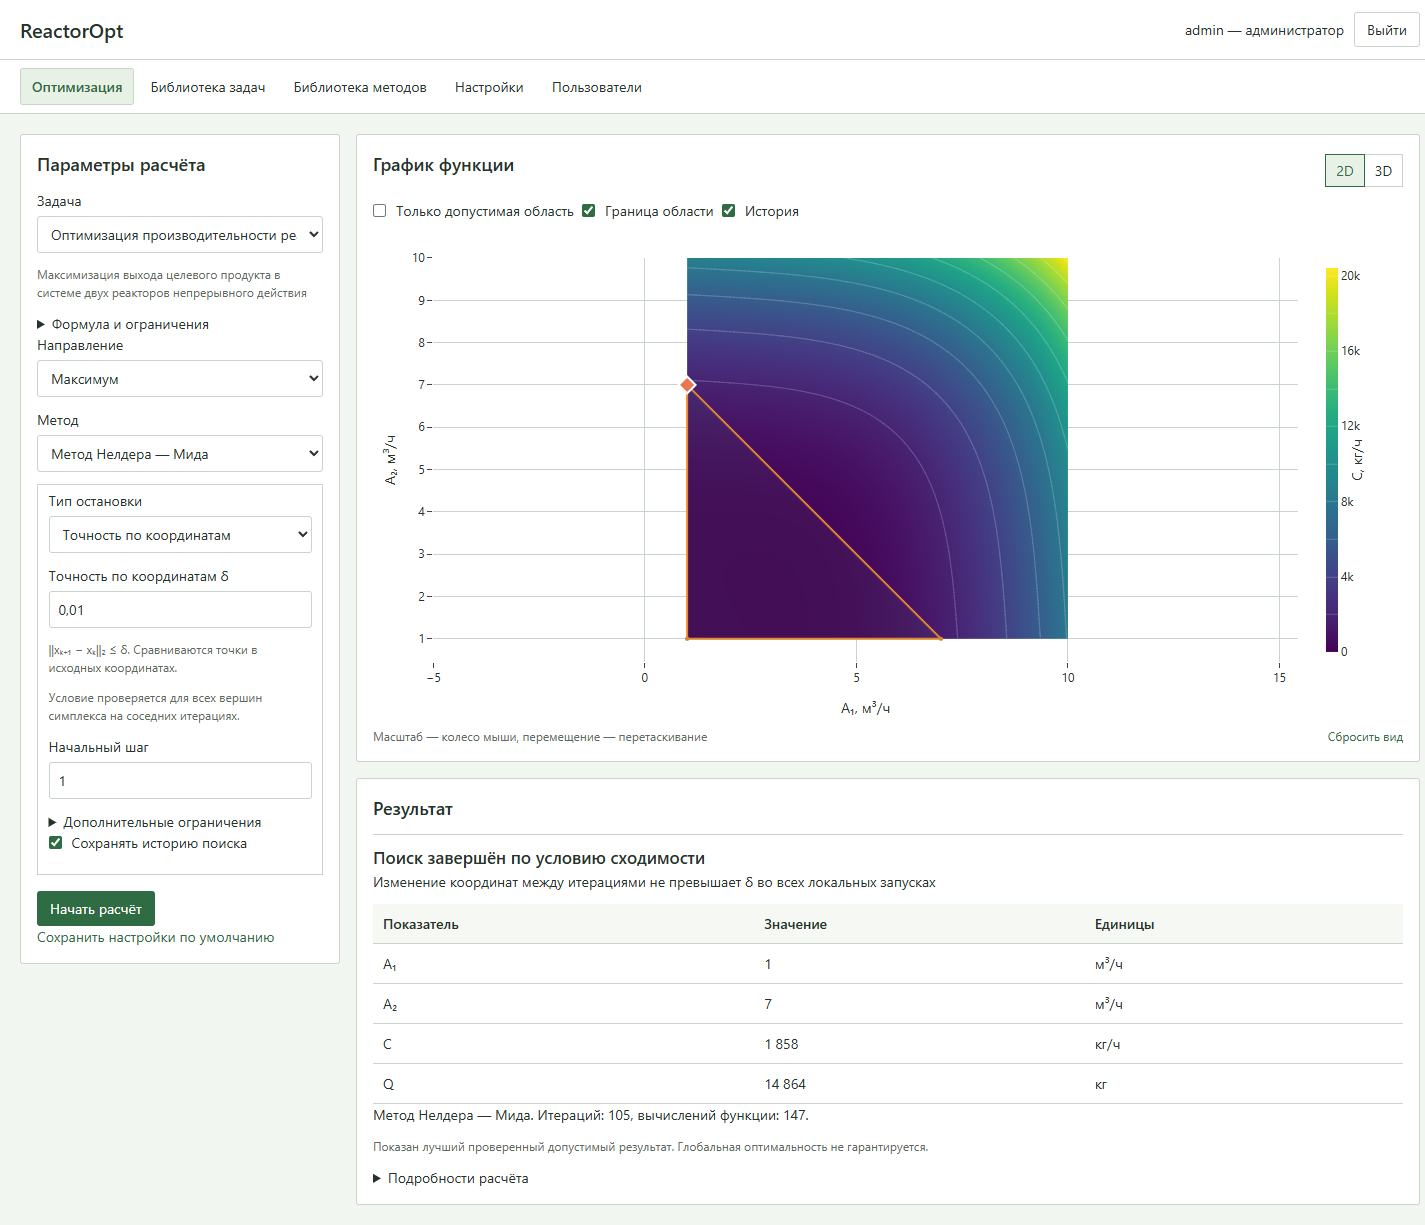
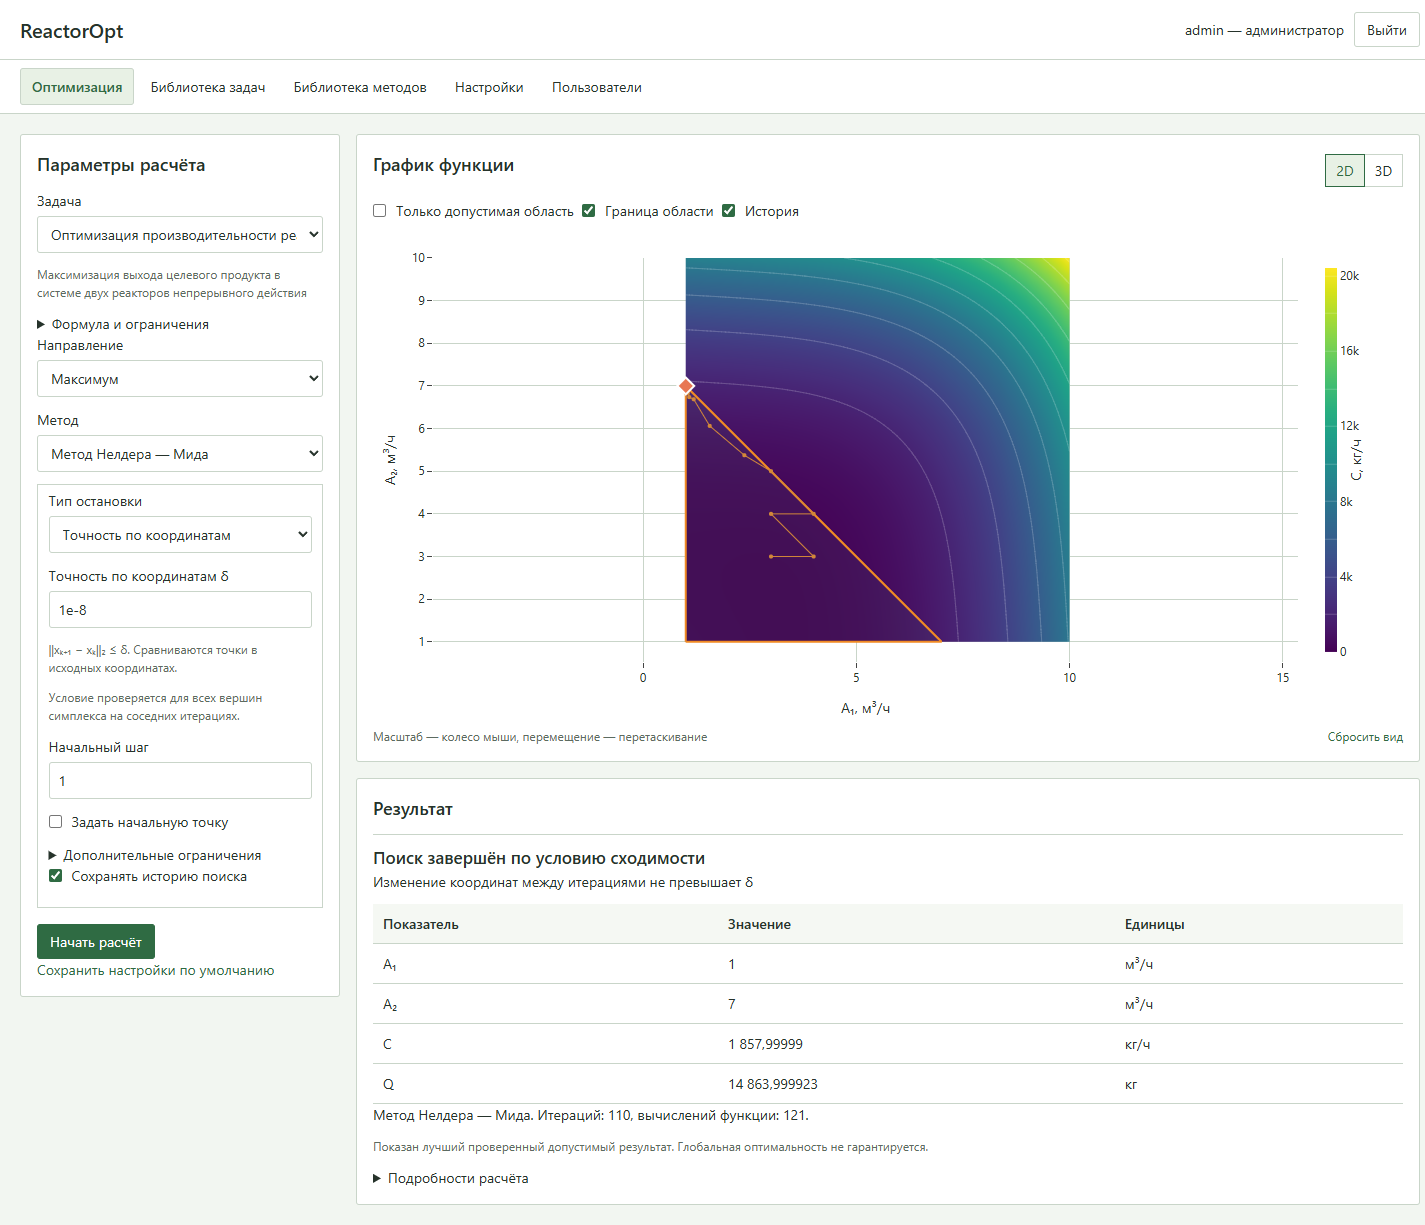
simplify nelder-mead to a single run

diff --git a/frontend/src/components/methodGuides.ts b/frontend/src/components/methodGuides.ts
@@ -19,14 +19,18 @@ export const methodGuides: Record<
     ],
     parameters: [
       {
+        name: 'Начальная точка',
+        text: 'Первая вершина начального симплекса. Без ручного задания берётся среднее координат вершин допустимой области. От старта зависит найденный локальный экстремум.',
+      },
+      {
         name: 'Начальный шаг',
         text: 'Задаёт исходное расстояние между пробными точками. Большой шаг охватывает более широкую область, малый сосредотачивает поиск рядом со стартом.',
       },
     ],
     application:
-      'В приложении проверяются вершины допустимой области, выполняются запуски из центра и вершин, отдельно исследуются рёбра. Недопустимые двумерные точки отбрасываются без вычисления функции; при поиске на ребре точки возвращаются на его отрезок. Критерий ε или δ проверяет максимальное изменение всех упорядоченных вершин между соседними итерациями.',
+      'Выполняется один запуск. Начальный треугольник строится от стартовой точки с заданным шагом по осям; его вершины возвращаются в допустимую область. Если треугольник выродился на границе, направления выбираются к вершинам области. Далее недопустимые двумерные пробы отбрасываются без вычисления функции. Если вся область — отрезок, используются две точки и поиск вдоль него. Критерий ε или δ проверяет максимальное изменение всех упорядоченных вершин между соседними итерациями.',
     limitation:
-      'Это локальный поиск: несколько стартов повышают шанс найти хороший результат, но не доказывают глобальный оптимум. Малое изменение координат означает выполнение критерия остановки, а не известное расстояние до точного решения.',
+      'Это локальный поиск: результат зависит от начальной точки и шага. Отдельного перебора вершин и поиска по рёбрам нет, глобальный оптимум не гарантируется. Малое изменение координат означает выполнение критерия остановки, а не известное расстояние до точного решения.',
   },
   bfgs: {
     idea: 'BFGS — квазиньютоновский метод локальной оптимизации. Он использует градиент, показывающий направление роста функции, и постепенно уточняет представление о её кривизне. Обычно полезен для гладких функций.',

diff --git a/frontend/src/components/MethodParameters.vue b/frontend/src/components/MethodParameters.vue
@@ -22,8 +22,7 @@ const stoppingType = computed({
 parameters.value.stopping_criterion = stoppingType.value
 
 watch([useStart, startX, startY], () => {
-  parameters.value.start =
-    useStart.value && props.methodId !== 'nelder_mead' ? [startX.value, startY.value] : null
+  parameters.value.start = useStart.value ? [startX.value, startY.value] : null
 })
 
 function randomSeed() {
@@ -124,21 +123,21 @@ function randomSeed() {
         <button type="button" class="button small" @click="randomSeed">Случайное число</button>
         <p class="hint">Результат CMA-ES может меняться при другом начальном числе.</p>
       </template>
-      <label class="check">
-        <input v-model="useStart" type="checkbox" />
-        Задать начальную точку
-      </label>
-      <div v-if="useStart" class="form-grid">
-        <label>
-          {{ task?.variables?.[0]?.display_name || 'x' }}
-          <input v-model.number="startX" type="number" step="any" required />
-        </label>
-        <label>
-          {{ task?.variables?.[1]?.display_name || 'y' }}
-          <input v-model.number="startY" type="number" step="any" required />
-        </label>
-      </div>
     </template>
+    <label class="check">
+      <input v-model="useStart" type="checkbox" />
+      Задать начальную точку
+    </label>
+    <div v-if="useStart" class="form-grid">
+      <label>
+        {{ task?.variables?.[0]?.display_name || 'x' }}
+        <input v-model.number="startX" type="number" step="any" required />
+      </label>
+      <label>
+        {{ task?.variables?.[1]?.display_name || 'y' }}
+        <input v-model.number="startY" type="number" step="any" required />
+      </label>
+    </div>
     <details>
       <summary>Дополнительные ограничения</summary>
       <label>

diff --git a/internal/optimization/nelder_mead.go b/internal/optimization/nelder_mead.go
@@ -2,6 +2,7 @@ package optimization
 
 import (
 	"context"
+	"fmt"
 	"math"
 	"slices"
 	"sort"
@@ -50,7 +51,7 @@ func scorePoint(evaluator *evaluation, point constraints.Point, project projecto
 	return scoredPoint{score, point}, ok
 }
 
-// Infeasible 2D trials use a barrier; edge trials are projected onto their segment.
+// Infeasible 2D trials use a barrier; 1D trials stay on the feasible segment.
 func nelderMeadIteration(evaluator *evaluation, simplex []scoredPoint, project projector) []scoredPoint {
 	sortSimplex(simplex)
 	worstIndex := len(simplex) - 1
@@ -137,6 +138,10 @@ func minimizeSimplex(evaluator *evaluation, points []constraints.Point, project 
 	if len(simplex) != len(points) {
 		return false
 	}
+	if simplex[0].point == simplex[1].point ||
+		(len(simplex) == 3 && distanceFromLine(simplex[2].point, simplex[0].point, simplex[1].point) == 0) {
+		return false
+	}
 	recentStates := [][]scoredPoint{}
 	for evaluator.canIterate() {
 		sortSimplex(simplex)
@@ -170,6 +175,9 @@ func (NelderMead) Run(ctx context.Context, problem *model.Problem, parameters Pa
 	if err := parameters.Validate("nelder_mead"); err != nil {
 		return Result{}, err
 	}
+	if parameters.Start != nil && !problem.Domain.Contains(*parameters.Start) {
+		return Result{}, fmt.Errorf("Начальная точка находится вне допустимой области")
+	}
 	evaluator := newEvaluation(ctx, problem, parameters, "nelder_mead")
 	evaluator.source = "nelder_mead"
 	if evaluator.shouldStop() {
@@ -180,95 +188,67 @@ func (NelderMead) Run(ctx context.Context, problem *model.Problem, parameters Pa
 		evaluator.stop("no_feasible_region", "Допустимых решений нет")
 		return evaluator.complete()
 	}
-	evaluator.beginStage()
-	for _, vertex := range vertices {
-		if _, ok := evaluator.score(vertex); !ok {
-			break
-		}
-	}
-	evaluator.finishStage(parameters.InitialStep)
-	if evaluator.shouldStop() {
-		return evaluator.complete()
-	}
 	if len(vertices) == 1 {
-		evaluator.stop("converged", "Допустимая область состоит из одной точки")
+		evaluator.beginStage()
+		evaluator.score(vertices[0])
+		evaluator.finishStage(0)
+		if !evaluator.shouldStop() {
+			evaluator.stop("converged", "Допустимая область состоит из одной точки")
+		}
 		return evaluator.complete()
 	}
-	project := problem.Domain.Project
-	center := constraints.Point{}
+	start := constraints.Point{}
 	for _, vertex := range vertices {
-		center[0] += vertex[0] / float64(len(vertices))
-		center[1] += vertex[1] / float64(len(vertices))
+		start[0] += vertex[0] / float64(len(vertices))
+		start[1] += vertex[1] / float64(len(vertices))
 	}
-	allConverged := true
-	if len(vertices) > 2 {
-		wideVertex := vertices[1]
-		for _, vertex := range vertices[2:] {
-			if math.Abs(cross(center, vertices[0], vertex)) > math.Abs(cross(center, vertices[0], wideVertex)) {
-				wideVertex = vertex
-			}
-		}
-		initialSimplex := []constraints.Point{
-			project(center),
-			project(towards(center, vertices[0], parameters.InitialStep)),
-			project(towards(center, wideVertex, parameters.InitialStep)),
-		}
-		if !minimizeSimplex(evaluator, initialSimplex, nil) {
-			allConverged = false
-		}
-		for _, vertex := range vertices {
-			if !evaluator.canIterate() {
-				break
-			}
-			distantVertex := vertices[0]
-			for _, candidate := range vertices {
-				if distance(vertex, candidate) > distance(vertex, distantVertex) {
-					distantVertex = candidate
-				}
-			}
-			wideVertex = vertices[0]
-			for _, candidate := range vertices {
-				if math.Abs(cross(vertex, distantVertex, candidate)) > math.Abs(cross(vertex, distantVertex, wideVertex)) {
-					wideVertex = candidate
-				}
-			}
-			initialSimplex = []constraints.Point{
-				vertex,
-				project(towards(vertex, distantVertex, parameters.InitialStep)),
-				project(towards(vertex, wideVertex, parameters.InitialStep)),
-			}
-			if !minimizeSimplex(evaluator, initialSimplex, nil) {
-				allConverged = false
-			}
-		}
+	if parameters.Start != nil {
+		start = *parameters.Start
 	}
-	edgeCount := len(vertices)
-	if edgeCount == 2 {
-		edgeCount = 1
+	start = problem.Domain.Project(start)
+	simplex := initialSimplex(problem.Domain, vertices, start, parameters.InitialStep)
+	var project projector
+	if len(vertices) == 2 {
+		project = problem.Domain.Project
 	}
-	for i := 0; i < edgeCount; i++ {
-		if !evaluator.canIterate() {
-			break
-		}
-		edgeStart, edgeEnd := vertices[i], vertices[(i+1)%len(vertices)]
-		midpoint := interpolate(edgeStart, edgeEnd, 0.5)
-		projectToEdge := func(candidate constraints.Point) constraints.Point {
-			return project(ontoSegment(candidate, edgeStart, edgeEnd))
-		}
-		initialSegment := []constraints.Point{
-			midpoint,
-			towards(midpoint, edgeEnd, parameters.InitialStep),
-		}
-		if !minimizeSimplex(evaluator, initialSegment, projectToEdge) {
-			allConverged = false
-		}
-	}
+	converged := minimizeSimplex(evaluator, simplex, project)
 	if evaluator.canIterate() {
-		if allConverged {
+		if converged {
 			evaluator.stop("converged", convergenceReason(parameters))
 		} else {
 			evaluator.stop("stalled", "Симплексный поиск остановился до выполнения выбранного критерия")
 		}
 	}
 	return evaluator.complete()
+}
+
+func initialSimplex(domain constraints.Domain, vertices []constraints.Point, start constraints.Point, step float64) []constraints.Point {
+	if len(vertices) > 2 {
+		first := domain.Project(constraints.Point{start[0] + step, start[1]})
+		second := domain.Project(constraints.Point{start[0], start[1] + step})
+		if distanceFromLine(second, start, first) > 0 {
+			return []constraints.Point{start, first, second}
+		}
+	}
+
+	// A start on the boundary can collapse the axis-aligned triangle after projection.
+	distantVertex := vertices[0]
+	for _, vertex := range vertices[1:] {
+		if distance(start, vertex) > distance(start, distantVertex) {
+			distantVertex = vertex
+		}
+	}
+	first := domain.Project(towards(start, distantVertex, step))
+	simplex := []constraints.Point{start, first}
+	if len(vertices) == 2 {
+		return simplex
+	}
+	wideVertex := vertices[0]
+	for _, vertex := range vertices[1:] {
+		if distanceFromLine(vertex, start, first) > distanceFromLine(wideVertex, start, first) {
+			wideVertex = vertex
+		}
+	}
+	second := domain.Project(towards(start, wideVertex, step))
+	return append(simplex, second)
 }

diff --git a/internal/optimization/method.go b/internal/optimization/method.go
@@ -26,7 +26,7 @@ type Parameters struct {
 
 func DefaultParameters() Parameters {
 	return Parameters{
-		Precision:         0.01,
+		Precision:         1e-8,
 		InitialStep:       1,
 		MaxEvaluations:    10000,
 		FunctionPrecision: 1e-6,
@@ -132,7 +132,7 @@ func Methods() []Definition {
 		{
 			ID:   "nelder_mead",
 			Name: "Метод Нелдера — Мида",
-			Description: "Локальный симплексный поиск из центра, вершин и вдоль рёбер. " +
+			Description: "Локальный поиск одним симплексом из заданной точки или центра области. " +
 				"Изменения функции и координат проверяются для всех вершин соседних симплексов. " +
 				"Глобальная оптимальность не гарантируется.",
 			Defaults: defaults,

diff --git a/internal/optimization/stopping.go b/internal/optimization/stopping.go
@@ -63,9 +63,9 @@ func (evaluator *evaluation) recordConvergence(change iterationChange) {
 
 func convergenceReason(parameters Parameters) string {
 	if parameters.StoppingCriterion == "function" {
-		return "Изменение функции между итерациями не превышает ε во всех локальных запусках"
+		return "Изменение функции между итерациями не превышает ε"
 	}
-	return "Изменение координат между итерациями не превышает δ во всех локальных запусках"
+	return "Изменение координат между итерациями не превышает δ"
 }
 
 type iterationConverger struct {

diff --git a/internal/optimization/geometry.go b/internal/optimization/geometry.go
@@ -27,6 +27,15 @@ func cross(origin, first, second constraints.Point) float64 {
 	return (first[0]-origin[0])*(second[1]-origin[1]) - (first[1]-origin[1])*(second[0]-origin[0])
 }
 
+func distanceFromLine(point, start, end constraints.Point) float64 {
+	length := distance(start, end)
+	if length == 0 {
+		return 0
+	}
+	dx, dy := (end[0]-start[0])/length, (end[1]-start[1])/length
+	return math.Abs(dx*(point[1]-start[1]) - dy*(point[0]-start[0]))
+}
+
 func ontoSegment(point, start, end constraints.Point) constraints.Point {
 	length := distance(start, end)
 	if length == 0 {
